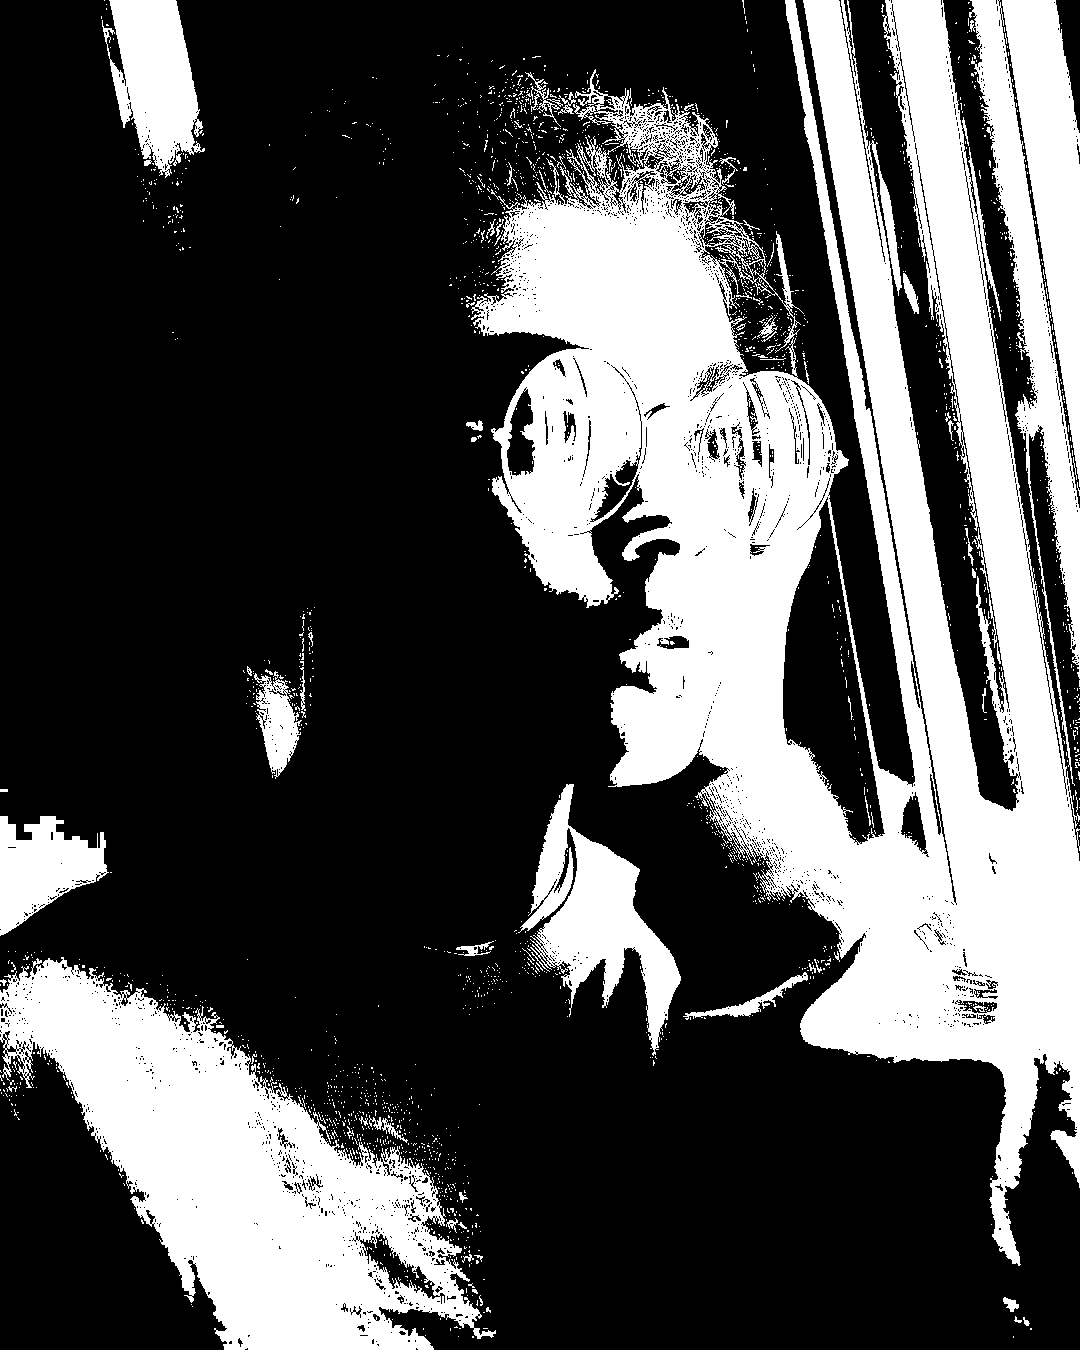
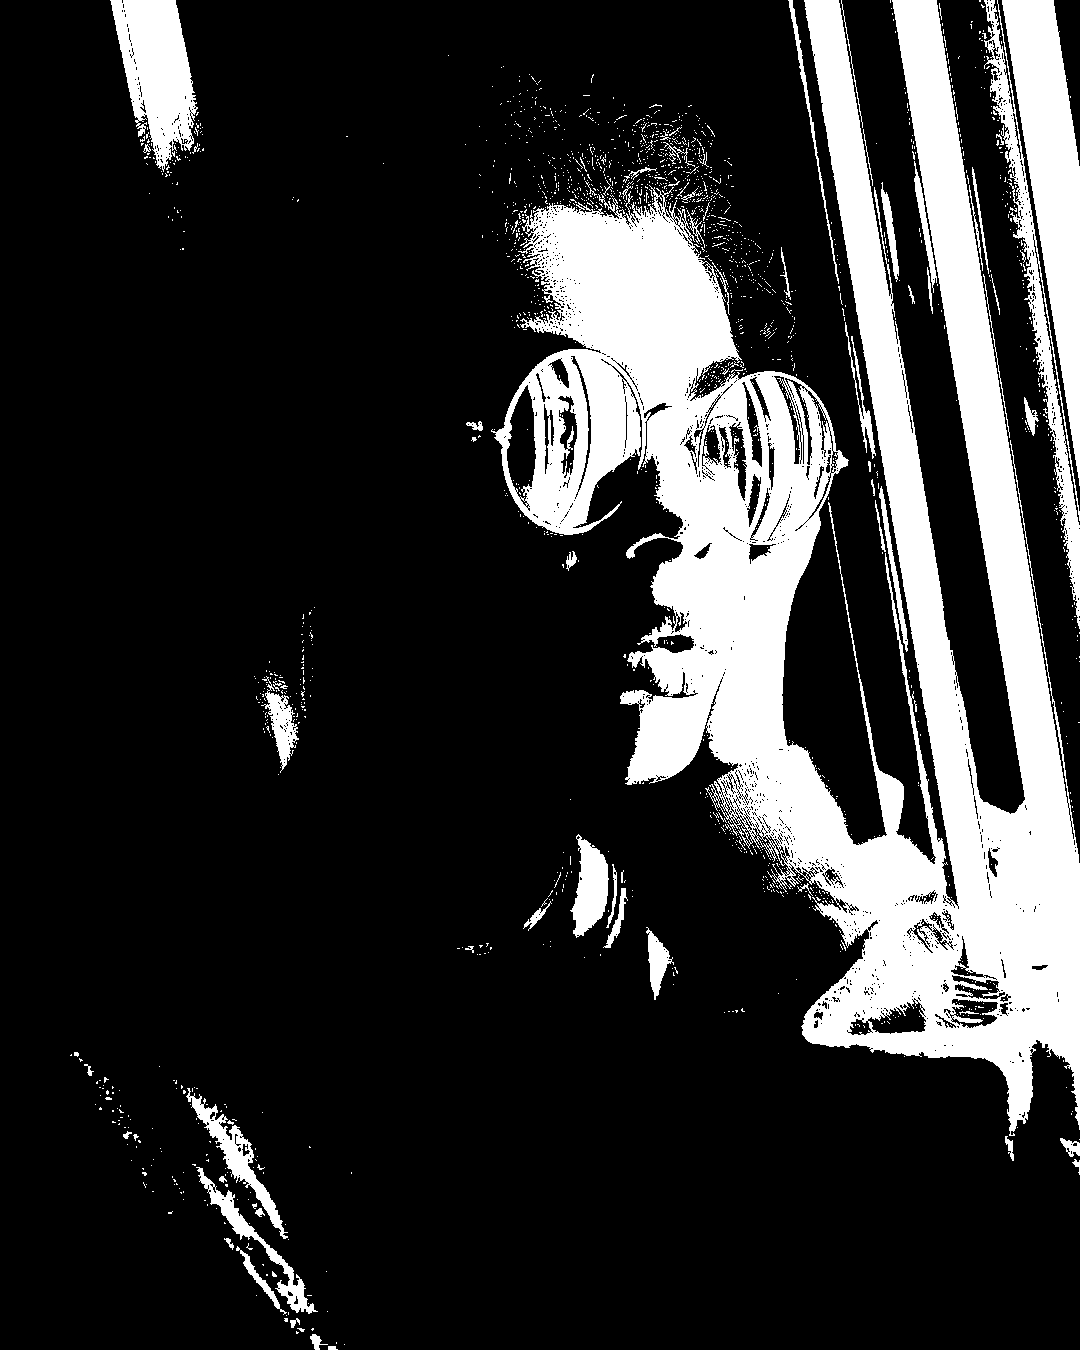
cleaned up a little

diff --git a/pixelSorter.java b/pixelSorter.java
@@ -8,10 +8,10 @@
  */
 import java.awt.image.BufferedImage;
 import java.awt.image.WritableRaster;
+import java.util.Collections;
 import java.util.Vector;
 import java.io.File;
 import java.io.IOException;
-import java.sql.Blob;
 
 import javax.imageio.ImageIO;
 
@@ -24,11 +24,13 @@ public class pixelSorter {
 		// String filePath = "/home/nokken/templ/JavaLearning/PixelSorting/images/" + fileName;
 		pixelSorter l = new pixelSorter();
 		// l.imageToBnW(Filename, 25);
-	//   l.imgToColum(fileName, l, 70);
-	//   l.imgToRow(fileName, l, 70);
+		// l.imgToColum(fileName, l, 70);
+		// l.imgToRow(fileName, l, 70);
 	  l.imgToRowInterval(fileName, l, 100);
 
 	} // main() ends here
+
+	
 	public void imgToRowInterval(String Filename, pixelSorter l, int threshhold){
 		BufferedImage img = null, imgBW = null, masktwo = null;
 		File f = null, fBW = null, mask2 = null;
@@ -64,46 +66,29 @@ public class pixelSorter {
 		Vector<Integer> imgRGB = new Vector<Integer>();
 		int rowIdx;
 		int changedPixels = 0;
-		int setPixels = 0;
 		for(int j = 0; j < img.getHeight(); j++){
 			// System.out.println(j + " for loop");
 			rowIdx = 0;
-			while(rowIdx < img.getWidth()){
+			while(rowIdx < img.getWidth() - 1 ){
 				// System.out.println(j + " while loop");
 				if(imgBW.getRGB(rowIdx,j) != BLACK){//|| masktwo.getRGB(i,j) != 0xFF000000){
 					imgRGB.add(img.getRGB(rowIdx,j));
+					// img.setRGB(rowIdx, j, BLACK);
 					changedPixels++;
 					// System.out.println(imgRGB.size() + " array");
-				}else if(imgBW.getRGB(rowIdx,j) == BLACK){
+				}else if(imgBW.getRGB(rowIdx,j) == BLACK && imgBW.getRGB(rowIdx + 1, j) != BLACK){
 					// System.out.println(rowIdx);
 					// sortINT(imgRGB);
-					imgRGB.sort(null);
+					Collections.sort(imgRGB);
 					for(int i = 0; i < imgRGB.size() ; i++){
 						// System.out.println("in forloop " + imgRGB.size() );
-						img.setRGB(rowIdx, j, 0xFF000000);
+						img.setRGB(rowIdx - 1, j, imgRGB.indexOf(i));
 					}
-					imgRGB.removeAllElements();
+					imgRGB.clear();
 
 				}		
-				// 	if(imgBW.getRGB(i,j) != 0xFF000000 ){//|| masktwo.getRGB(i,j) != 0xFF000000){
-				// 		imgRGB[i] = img.getRGB(i, j);
-				// 	}
-				// System.out.println("row idx = " + rowIdx + " height " + j);
 				rowIdx++;
 			}
-
-
-			// for(int i = 0; i < img.getWidth(); i++){
-			// 	if(imgBW.getRGB(i,j) != 0xFF000000 ){//|| masktwo.getRGB(i,j) != 0xFF000000){
-			// 		imgRGB[i] = img.getRGB(i, j);
-			// 	}
-			// }
-			// sortINT(imgRGB);
-			// for(int i = 0; i < img.getWidth(); i ++){
-			// 	if(imgBW.getRGB(i, j) != 0xFF000000 ){//|| masktwo.getRGB(i,j) != 0xFF000000){
-			// 		img.setRGB(i, j, imgRGB[i]);
-			// 	}
-			// }
 		}
 		System.out.println(changedPixels + " changed pixels");
 
